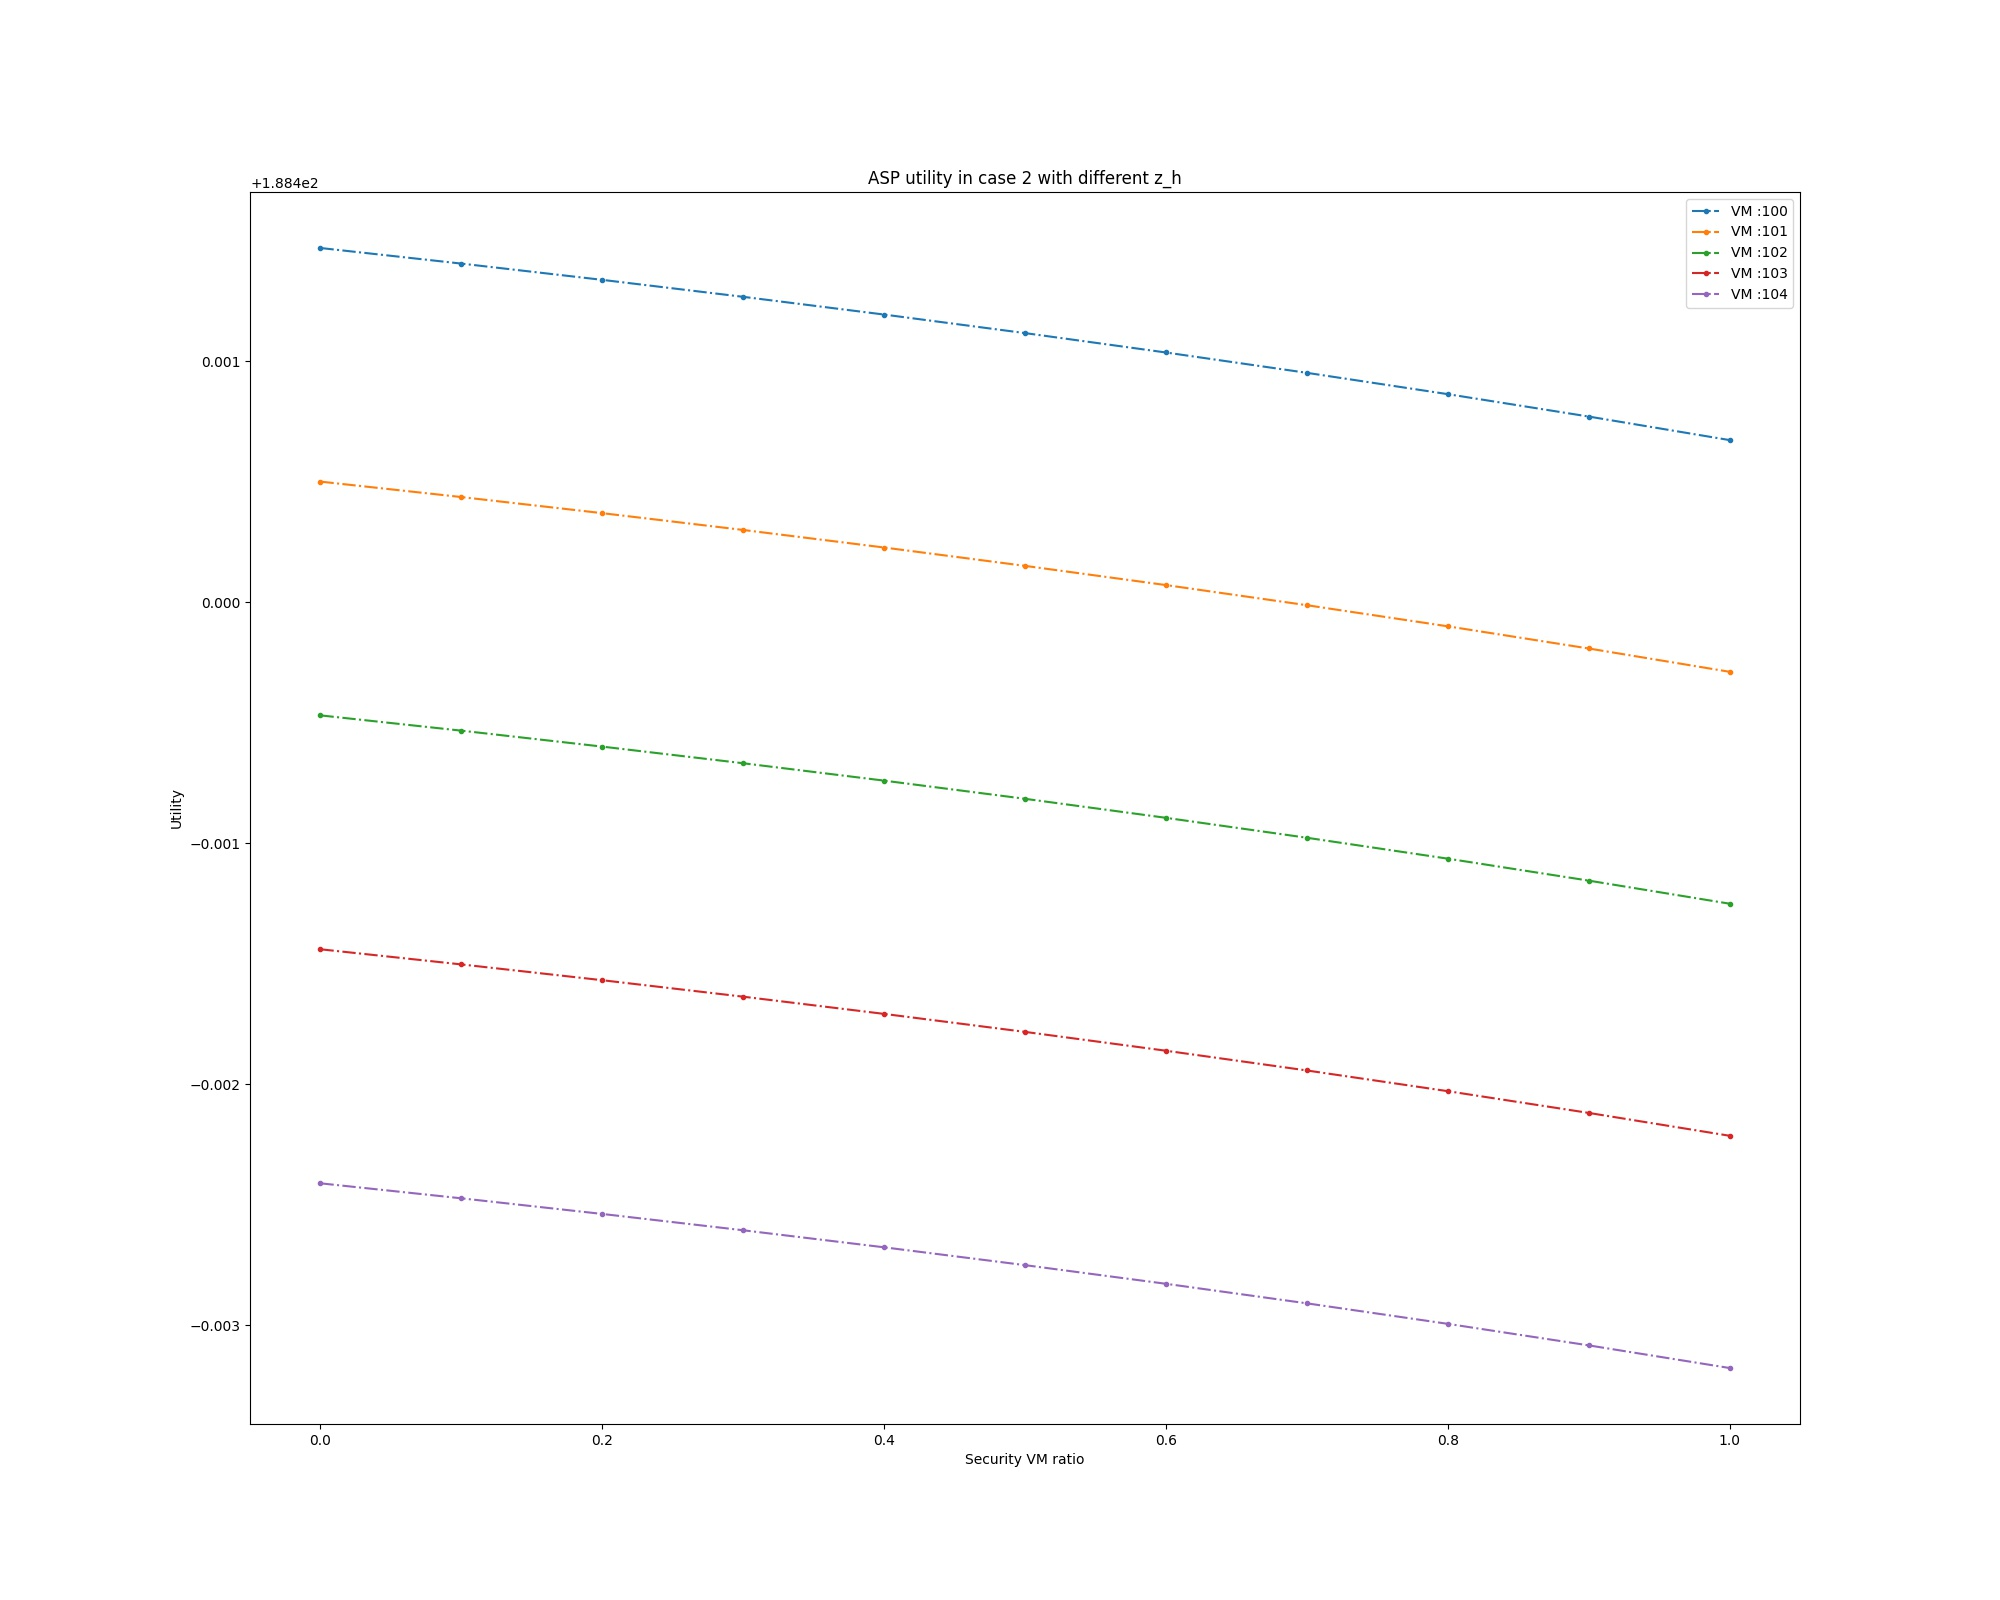
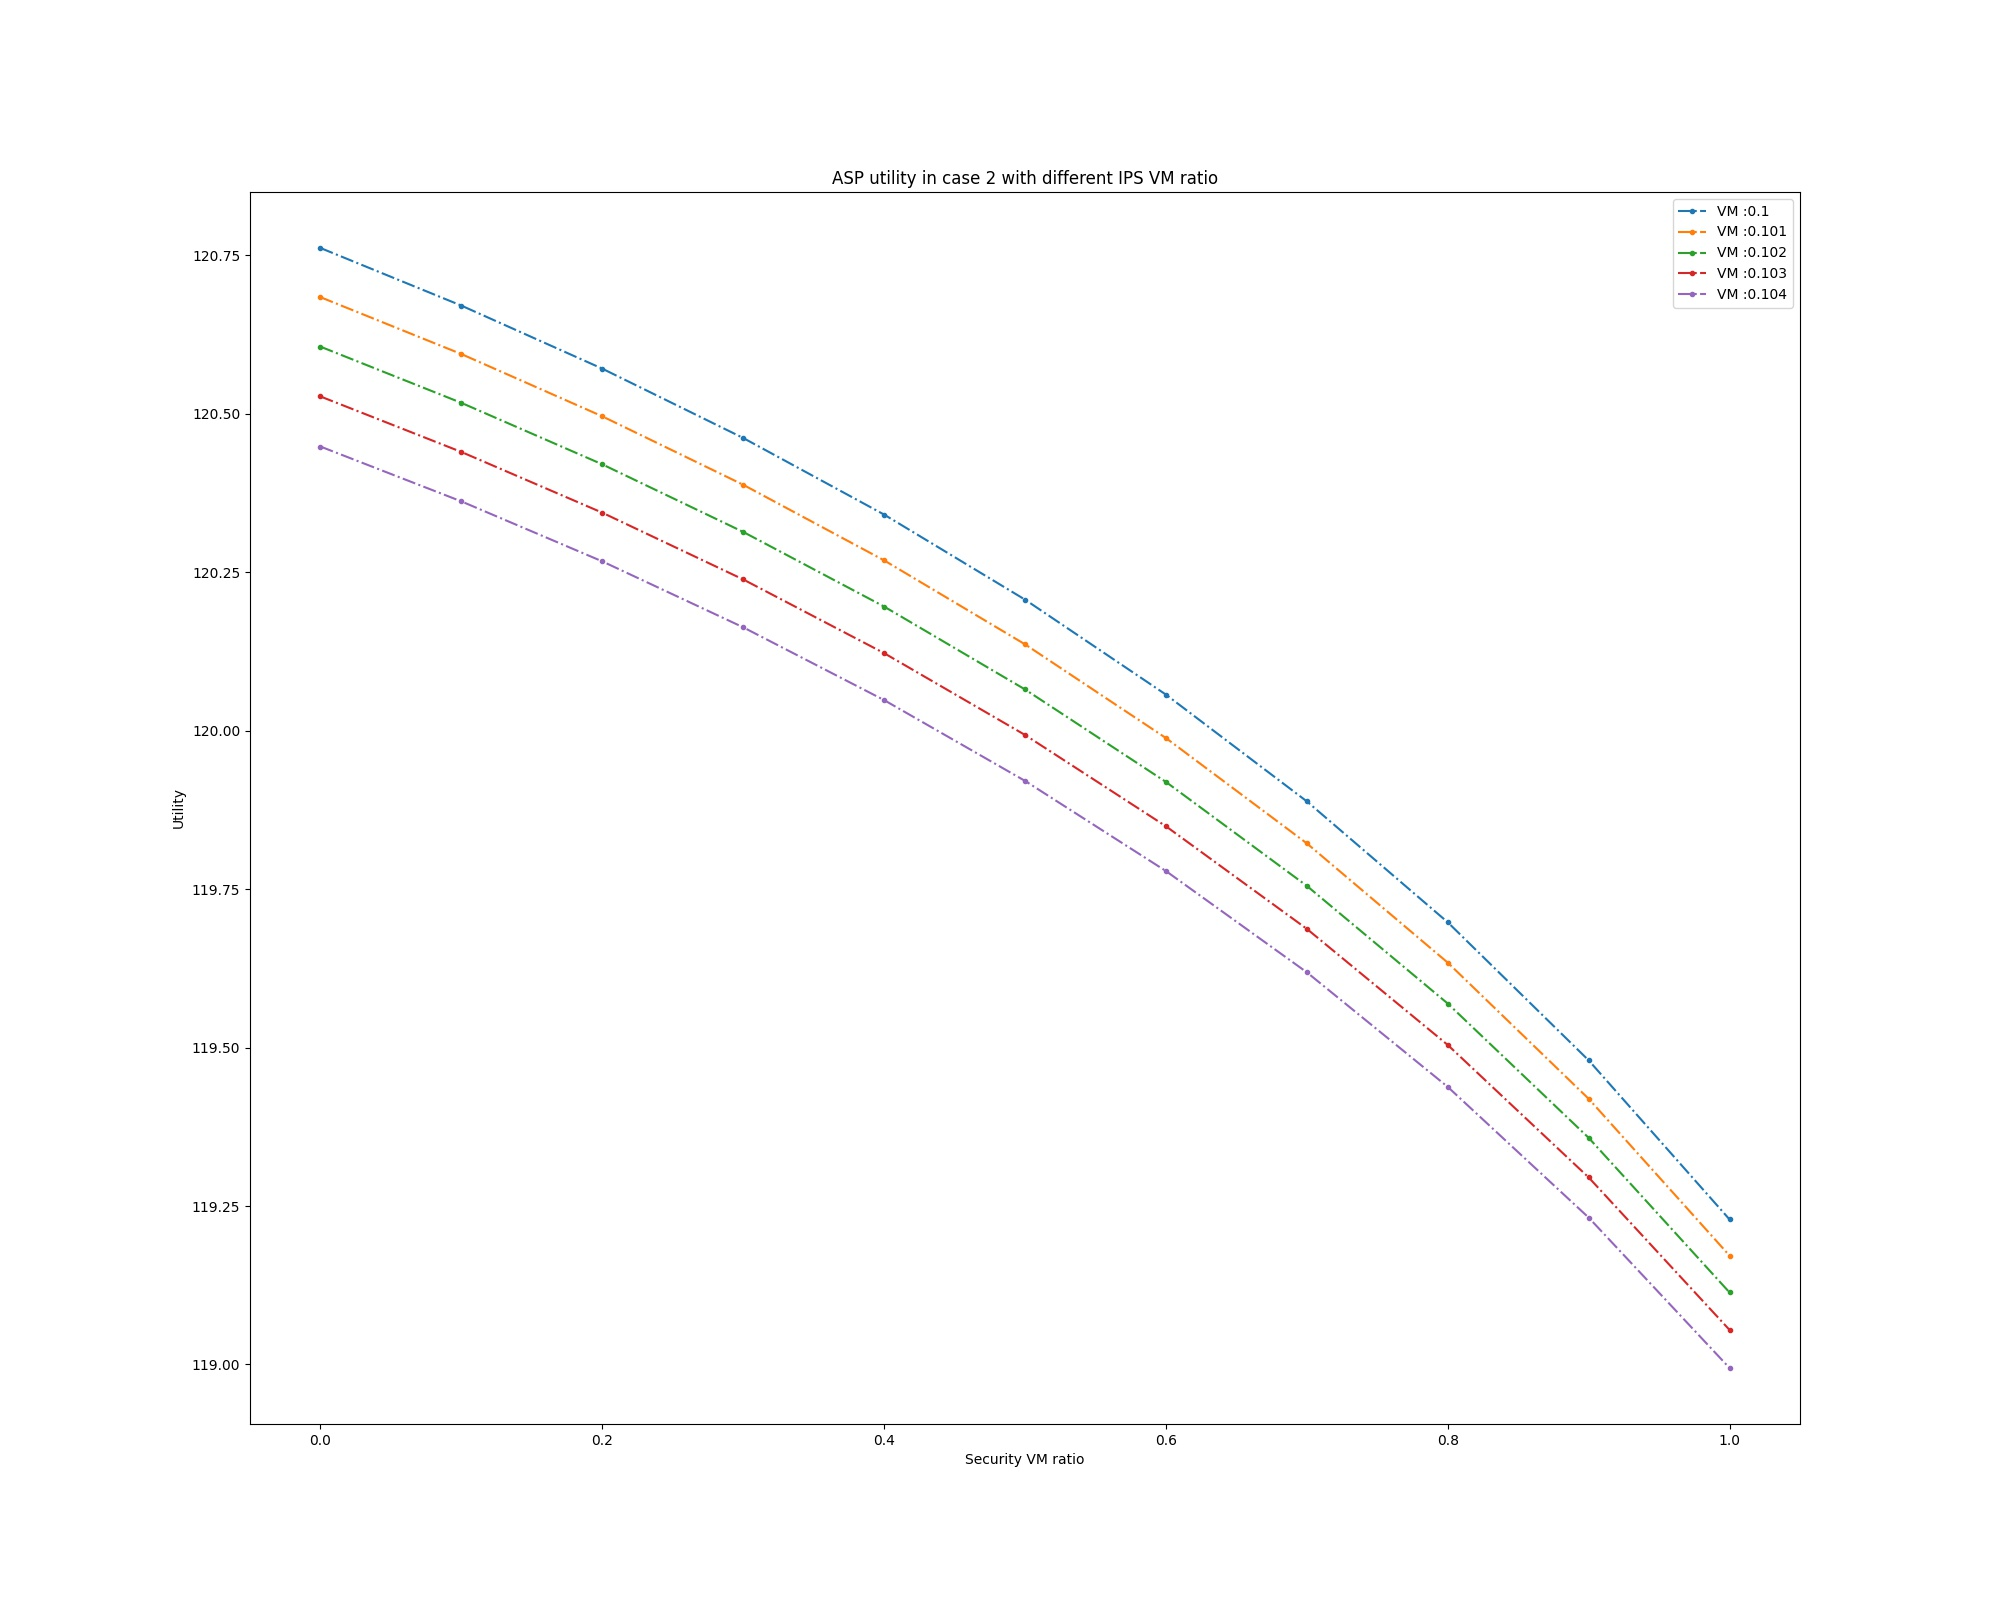
fix parameters of the graph

diff --git a/simulation_code/asp.py b/simulation_code/asp.py
@@ -100,8 +100,8 @@ class ASP():
                 self.z_v = 0
 
     def plot_max(self):
-        mpo_lst = [0.0001, 0.0003, 0.0005, 0.0007, 0.0009]
-        color_dict = {0.0001 : 'red', 0.0003 : 'darkorange', 0.0005 : 'indigo', 0.0007 : 'darkgreen', 0.0009 : 'darkblue'}
+        mpo_lst = [100, 300, 500, 700, 900]
+        color_dict = {100 : 'red', 300 : 'darkorange', 500 : 'indigo', 700 : 'darkgreen', 900 : 'darkblue'}
         if GLOBAL_ETA > self.service_rate:
             plt.figure(figsize=(20, 16))
             for mpo_price in mpo_lst:
@@ -113,8 +113,8 @@ class ASP():
                 self.set_process_time()
                 self.set_utility()
                 plt.scatter(self.z_v, self.utility, color=color_dict[mpo_price], marker='^')
-                for i in range(5, 100):
-                    self.z_v = i
+                for i in range(31, 100):
+                    self.z_v = i / 1000
                     self.z_h = self.chi * self.z_v
                     self.set_process_time()
                     self.set_utility()
@@ -140,8 +140,8 @@ class ASP():
                 self.set_process_time()
                 self.set_utility()
                 plt.scatter(self.z_v, self.utility, color=color_dict[mpo_price], marker='^')
-                for i in range(5, 100):
-                    self.z_v = i
+                for i in range(25, 100):
+                    self.z_v = i / 1000
                     self.z_h = 0
                     self.set_process_time()
                     self.set_utility()
@@ -159,12 +159,12 @@ class ASP():
 
     def plot_max_zh(self):
         if GLOBAL_ETA > self.service_rate:
-            self.mpo_price = 0.001
+            self.mpo_price = 100
             ut = []
             z_h = []
             plt.figure(figsize=(20, 16))
             for z in range(100, 105, 1):
-                self.z_v = z
+                self.z_v = z / 1000
                 for i in range(11):
                     i = i / 10
                     self.z_h = self.z_v * i
@@ -175,19 +175,19 @@ class ASP():
                 plt.plot(z_h, ut, marker='.', linestyle='-.', label=f"VM :{self.z_v}")
                 ut = []
                 z_h = []
-            plt.title('ASP utility in case 1 with different z_h')
+            plt.title('ASP utility in case 1 with different IPS VM ratio')
             plt.xlabel('Security VM ratio')
             plt.ylabel('Utility')
             plt.legend(loc="best")
             plt.savefig('./asp_utility_z_h_case1.jpg')
             plt.close()
         else:
-            self.mpo_price = 0.001
+            self.mpo_price = 100
             ut = []
             z_h = []
             plt.figure(figsize=(20, 16))
             for z in range(100, 105, 1):
-                self.z_v = z
+                self.z_v = z / 1000
                 for i in range(11):
                     i = i / 10
                     self.z_h = self.z_v * i
@@ -198,7 +198,7 @@ class ASP():
                 plt.plot(z_h, ut, marker='.', linestyle='-.', label=f"VM :{self.z_v}")
                 ut = []
                 z_h = []
-            plt.title('ASP utility in case 2 with different z_h')
+            plt.title('ASP utility in case 2 with different IPS VM ratio')
             plt.xlabel('Security VM ratio')
             plt.ylabel('Utility')
             plt.legend(loc="best")

diff --git a/simulation_code/mpo.py b/simulation_code/mpo.py
@@ -75,16 +75,18 @@ class MPO():
         plt.title('Utility of MPO')
         plt.xlabel('MPO Price')
         plt.ylabel('Utility')
-        plt.vlines(self.bd, ymin=0, ymax=max(ut), linestyle='-', color ='red')
-        plt.vlines(self.constraint_phi, ymin=0, ymax=max(ut), linestyle='-', color ='darkorange')
+        plt.vlines(self.bd, ymin=0, ymax=max(ut), linestyle='-', color ='red', label='Boundary')
+        plt.vlines(self.constraint_phi, ymin=0, ymax=max(ut), linestyle='-', color ='darkorange', label='Price Constraint')
+        plt.legend(loc="best")
         plt.savefig('./utility.jpg')
         plt.close()
         plt.figure(figsize=(20, 16), dpi=100)
         plt.plot(pr, num, marker='.', linestyle='-.')
-        plt.vlines(self.bd, ymin=0, ymax=max(num), linestyle='-', color ='red')
-        plt.hlines(self.num_of_vm, xmin=min(700, self.constraint_phi), xmax=7700, linestyle='-', color ='black')
-        plt.vlines(self.constraint_phi, ymin=0, ymax=max(num), linestyle='-', color ='darkorange')
+        plt.vlines(self.bd, ymin=0, ymax=max(num), linestyle='-', color ='red', label='Boundary')
+        plt.hlines(self.num_of_vm, xmin=min(700, self.constraint_phi), xmax=7700, linestyle='-', color ='black', label='VM Constraint')
+        plt.vlines(self.constraint_phi, ymin=0, ymax=max(num), linestyle='-', color ='darkorange', label='Price Constraint')
         plt.title('Total Purchased VM')
+        plt.legend(loc="best")
         plt.xlabel('MPO Price')
         plt.ylabel('Purchased VM')
         plt.savefig('./vm_number.jpg')

diff --git a/simulation_code/run.py b/simulation_code/run.py
@@ -5,8 +5,7 @@ from mpo import MPO
 
 if __name__ == '__main__':
     mpo = MPO()
-    # mpo.find_optimize_phi()
     mpo.plot_phi()
-    # asp = ASP()
-    # asp.plot_max()
-    # asp.plot_max_zh()
+    asp = ASP()
+    asp.plot_max()
+    asp.plot_max_zh()
